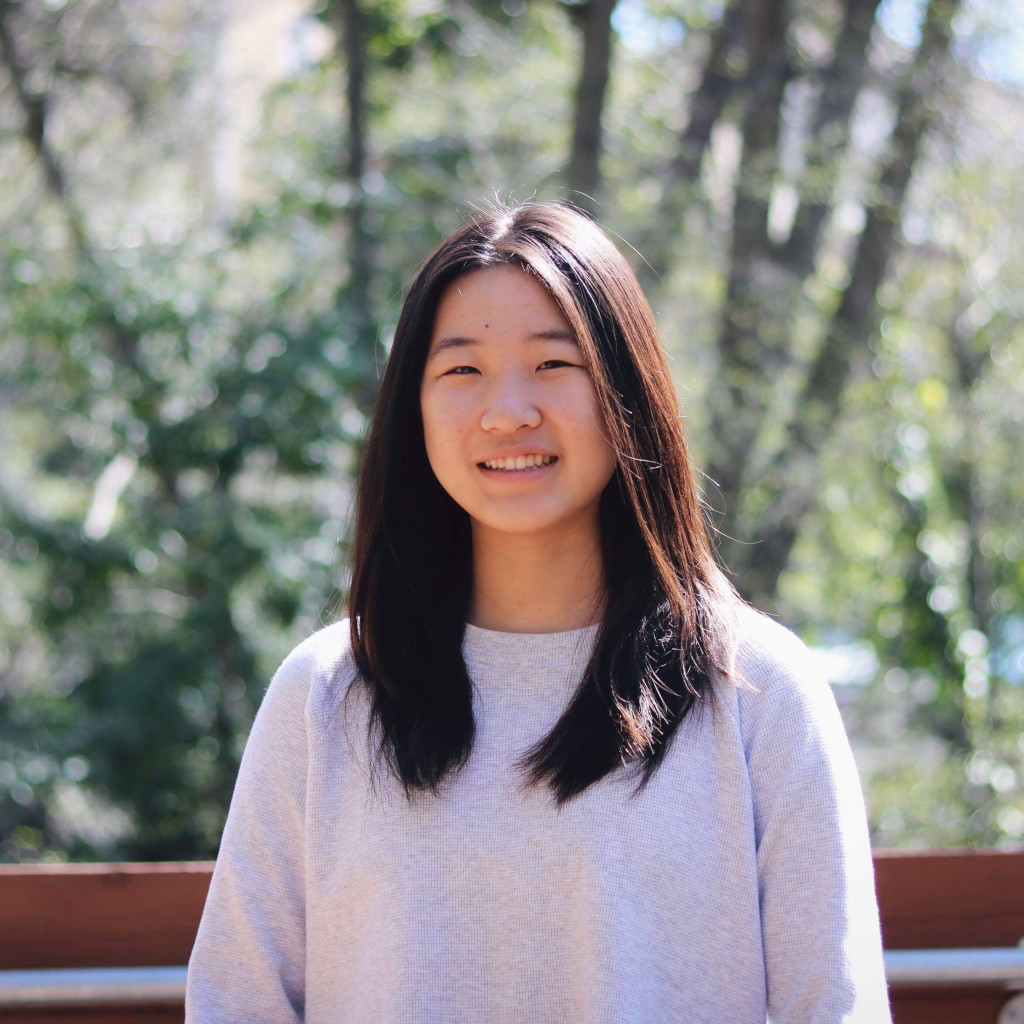
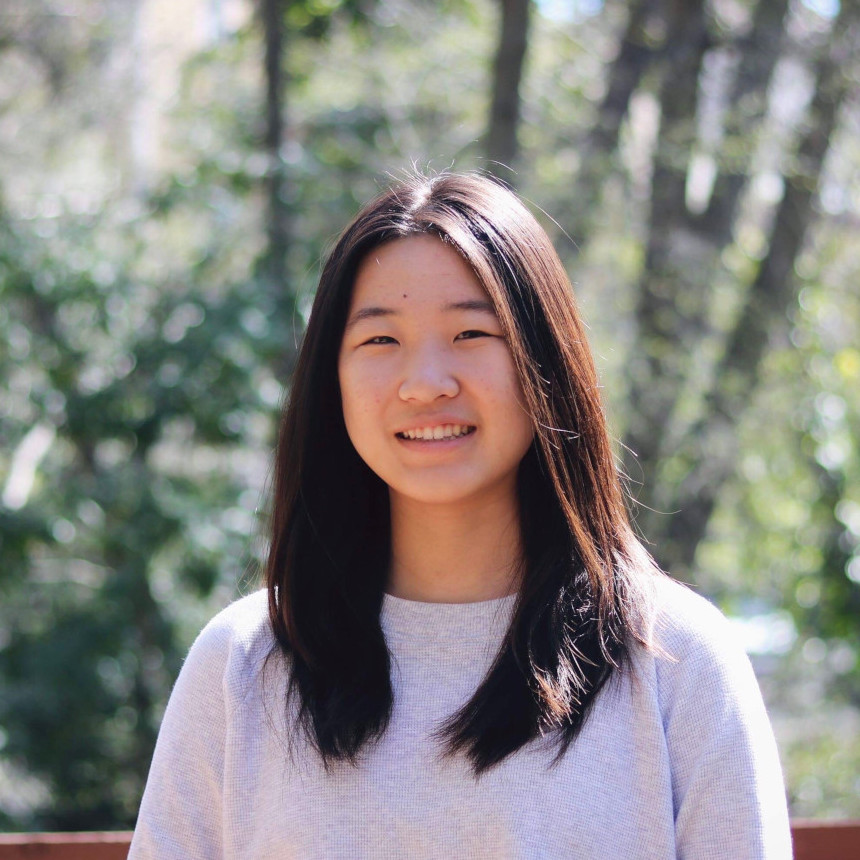
Added portraits, added prospectus page, modified server

diff --git a/public/views/content.html b/public/views/content.html
@@ -32,7 +32,7 @@
     <span class="section-spacer"></span>
 
     <div class="about-us-container">
-        <div class="header" id="about-header">About</div>
+        <div class="header bottom-padded">About</div>
         <div class="text-content">GenHacks is a high-school hackathon that will gather the innovators of tomorrow into
             an amazing experience, organized by students of Bay Area schools.
         </div>
@@ -321,7 +321,7 @@
         </div>
         <div class="person-container">
             <div class="person-picture">
-                <img alt="default person photo" class="person-portrait" src="/res/portraits/default_person.png">
+                <img alt="default person photo" class="person-portrait" src="/res/portraits/Arjun.jpg">
             </div>
             <div class="person-name">
                 Arjun Gupta
@@ -420,7 +420,7 @@
         </div>
         <div class="person-container">
             <div class="person-picture">
-                <img alt="default person photo" class="person-portrait" src="/res/portraits/default_person.png">
+                <img alt="default person photo" class="person-portrait" src="/res/portraits/Sophia.jpg">
             </div>
             <div class="person-name">
                 Sophia Chen
@@ -453,7 +453,7 @@
         </div>
         <div class="person-container">
             <div class="person-picture">
-                <img alt="default person photo" class="person-portrait" src="/res/portraits/default_person.png">
+                <img alt="default person photo" class="person-portrait" src="/res/portraits/Ethan.jpg">
             </div>
             <div class="person-name">
                 Ethan Zhang
@@ -466,11 +466,18 @@
 
     <span class="section-spacer"></span>
 
-    <div class="sponsors-container">
-        <div class="header">Partners &#38; Sponsors</div>
+    <div class="give-us-sponsors">
+        <div class="header bottom-padded">Interested in Sponsoring?</div>
+        <span class="text-content">Check out our <a href="/sponsorship-prospectus" target="_blank" class="perma-link">sponsorship prospectus!</a></span>
     </div>
 
     <span class="section-spacer"></span>
+
+    <!--    <div class="sponsors-container">-->
+    <!--        <div class="header">Partners &#38; Sponsors</div>-->
+    <!--    </div>-->
+
+    <!--    <span class="section-spacer"></span>-->
 
     <div class="bottom-bar">
         <div class="copyright-notice">

diff --git a/public/css/content.scss b/public/css/content.scss
@@ -132,6 +132,12 @@ html, body {
   display: none;
 }
 
+.give-us-sponsors{
+  display: flex;
+  justify-content: center;
+  align-items: center;
+  flex-direction: column;
+}
 
 .hackathon-time {
   font-size: 23px;
@@ -326,6 +332,14 @@ html, body {
   width: 160px;
   height: fit-content;
   padding: 0 5px 5px 5px;
+}
+
+.perma-link:any-link{
+  color: var(--text-font-color);
+}
+
+.perma-link:hover{
+  color: #336b29;
 }
 
 .person-portrait{
@@ -644,6 +658,7 @@ html, body {
   }
 
   .header{
+    text-align: center;
     z-index:1000;
   }
 
@@ -681,10 +696,6 @@ html, body {
     padding-bottom: 12px;
   }
 
-  #about-header{
-    padding-bottom: 10px;
-  }
-
   .spacer-horizontal{
     //flex: 1 50%;
     flex: 1 20%;
@@ -701,6 +712,10 @@ html, body {
   #tuesday-container{
     margin-right: unset;
     margin-left: 3.8vw;
+  }
+
+  .bottom-padded{
+    padding-bottom: 10px;
   }
     .not-an-actual-class {float:none;}
 }

diff --git a/public/css/content.css b/public/css/content.css
@@ -104,6 +104,13 @@ html, body {
   display: none;
 }
 
+.give-us-sponsors {
+  display: flex;
+  justify-content: center;
+  align-items: center;
+  flex-direction: column;
+}
+
 .hackathon-time {
   font-size: 23px;
 }
@@ -257,6 +264,14 @@ html, body {
   width: 160px;
   height: fit-content;
   padding: 0 5px 5px 5px;
+}
+
+.perma-link:any-link {
+  color: var(--text-font-color);
+}
+
+.perma-link:hover {
+  color: #336b29;
 }
 
 .person-portrait {
@@ -541,6 +556,7 @@ html, body {
   }
 
   .header {
+    text-align: center;
     z-index: 1000;
   }
 
@@ -574,10 +590,6 @@ html, body {
     padding-bottom: 12px;
   }
 
-  #about-header {
-    padding-bottom: 10px;
-  }
-
   .spacer-horizontal {
     flex: 1 20%;
   }
@@ -593,6 +605,10 @@ html, body {
   #tuesday-container {
     margin-right: unset;
     margin-left: 3.8vw;
+  }
+
+  .bottom-padded {
+    padding-bottom: 10px;
   }
 
   .not-an-actual-class {

diff --git a/public/views/sponsorship-prospectus.html b/public/views/sponsorship-prospectus.html
@@ -1,0 +1,29 @@
+<html>
+<head>
+    <meta content="width=device-width, initial-scale=1.0, maximum-scale=1.0, user-scalable=0" name="viewport">
+    <title>GenHacks Registration</title>
+
+    <!-- Global site tag (gtag.js) - Google Analytics -->
+    <script async src="https://www.googletagmanager.com/gtag/js?id=UA-142125117-1"></script>
+    <script>
+        window.dataLayer = window.dataLayer || [];
+        function gtag() {
+            dataLayer.push(arguments);
+        }
+        gtag('js', new Date());
+        gtag('config', 'UA-142125117-1');
+    </script>
+    <style>
+        html, body{
+            margin: 0;
+        }
+        embed{
+            height: 100%;
+            width: 100%;
+        }
+    </style>
+</head>
+<body>
+    <embed src="https://drive.google.com/viewerng/viewer?embedded=true&url=http://www.pdf995.com/samples/pdf.pdf">
+</body>
+</html>

diff --git a/server.js b/server.js
@@ -43,6 +43,12 @@ app.get(
     res.sendFile(path.join(__dirname, 'public/res/' + req.path.split('/')[1]));
 });
 
+app.get(
+    ['/sponsorship-prospectus', 'sponsor-us'],
+    (req, res) =>{
+        res.sendFile(path.join(__dirname, 'public/views/sponsorship-prospectus.html'));
+    }
+);
 
 app.get('/*', (req, res) => {
     if(isLocal){
